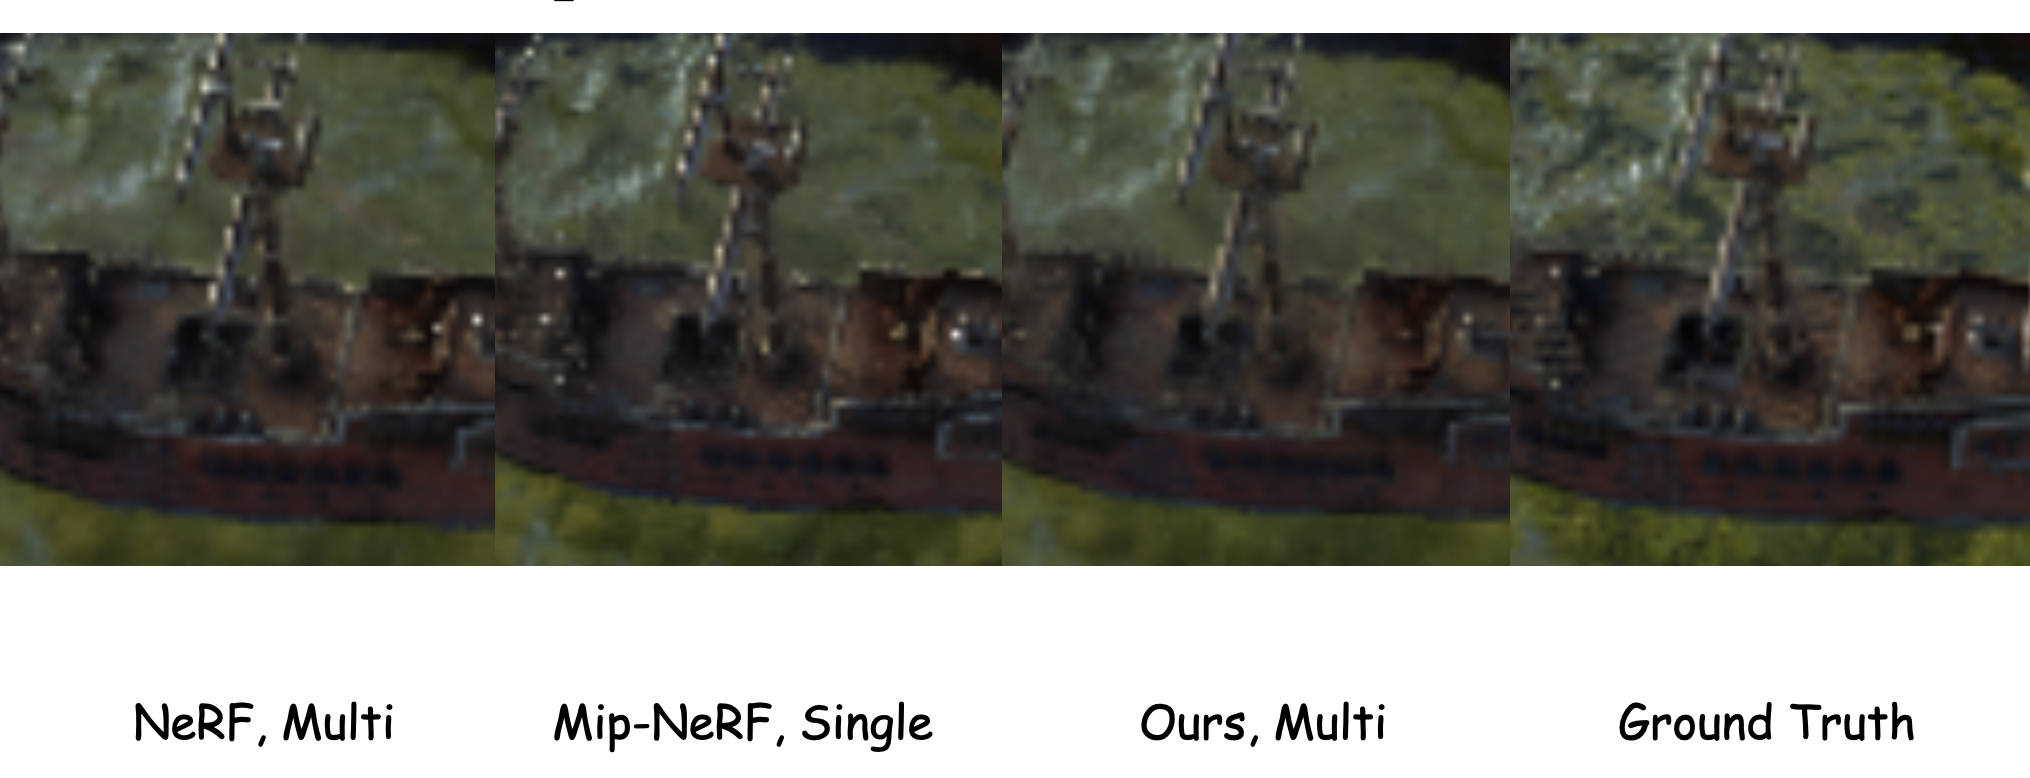
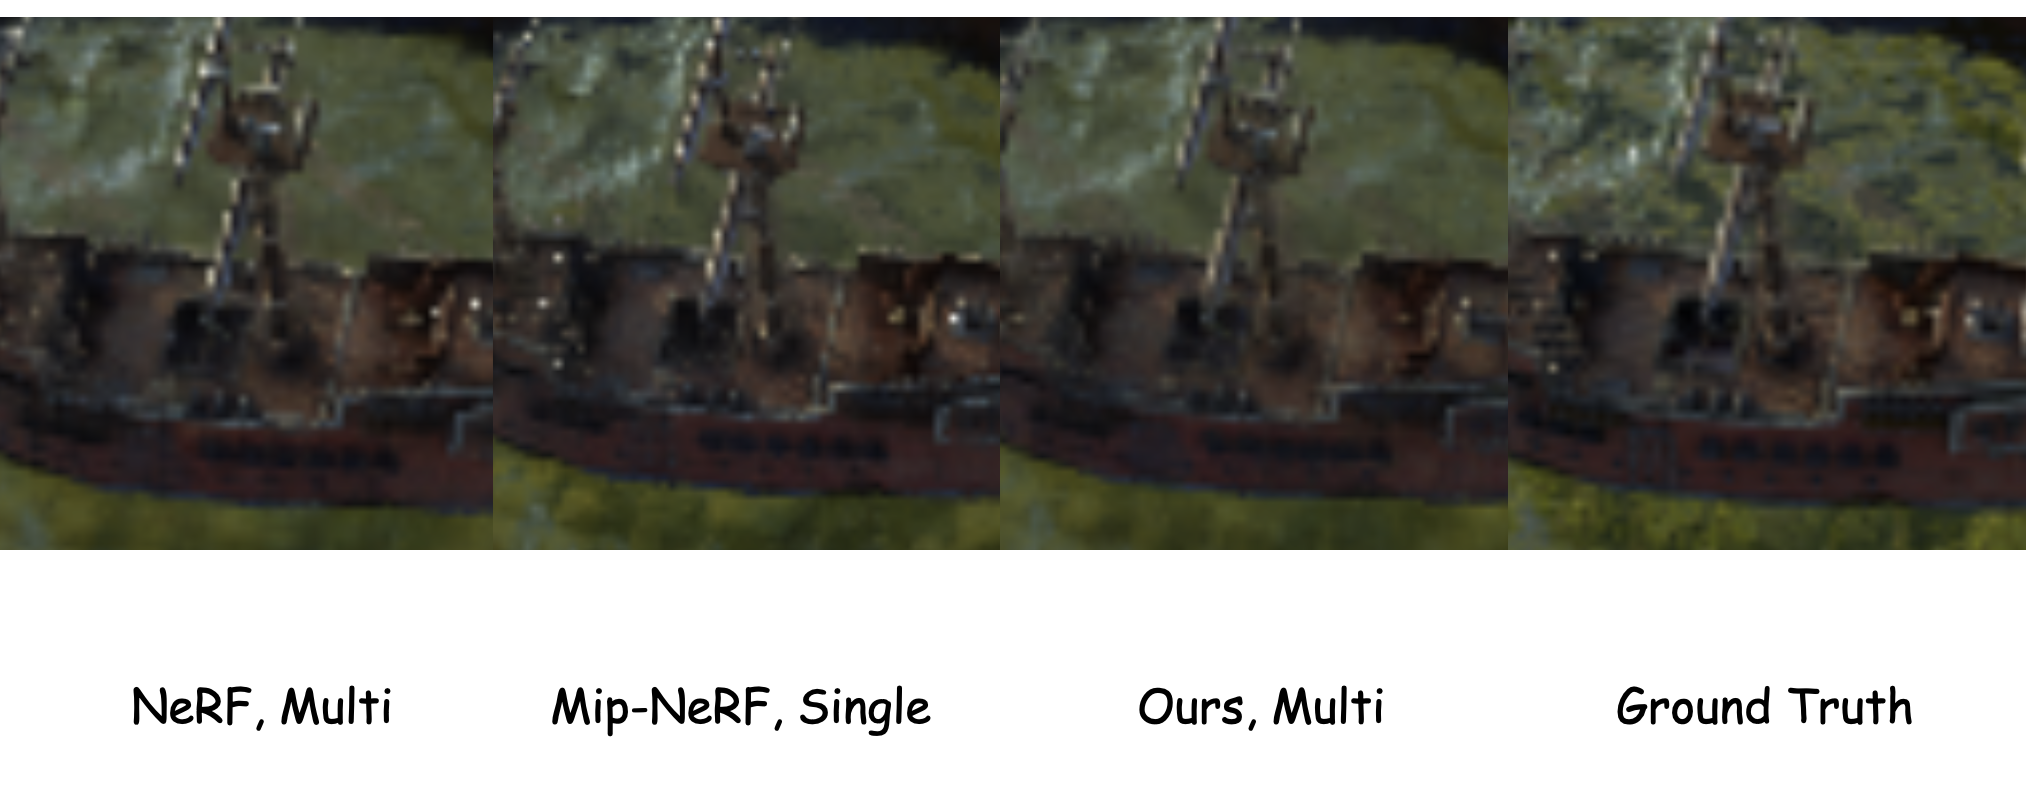
update & added color theme

diff --git a/assets/css/main.scss b/assets/css/main.scss
@@ -48,7 +48,11 @@
     flex-wrap: wrap;
     border-bottom: 1px #efefef solid;
     padding: 2em 0 2em 0;
-    
+
+    &.paper-box--last {
+        border-bottom: none;
+    }
+
 
     .paper-box-image{
         justify-content: center;
@@ -106,4 +110,242 @@ h1:before, .anchor:before {
     color: white;
     background-color: #00369f;
     font-size: .8em;
+}
+
+.page__content a.back-to-projects {
+    display: inline-flex;
+    align-items: center;
+    justify-content: center;
+    width: 2.25em;
+    height: 2.25em;
+    margin-bottom: 1.5em;
+    border: 1px solid $border-color;
+    border-radius: 50%;
+    color: $primary-color;
+    font-size: 1em;
+    box-shadow: 0 1px 3px rgba(0, 0, 0, 0.08);
+    text-decoration: none;
+    transition: transform 0.15s ease, background-color 0.2s ease, color 0.2s ease, border-color 0.2s ease, box-shadow 0.2s ease;
+
+    &:hover {
+        color: $link-color;
+        border-color: $link-color;
+        background-color: mix(#fff, $link-color, 92%);
+        box-shadow: 0 2px 6px rgba(0, 0, 0, 0.1);
+        transform: scale(1.08);
+        text-decoration: none;
+    }
+}
+
+/* ==========================================================================
+   THEME TOGGLE
+   ========================================================================== */
+
+.masthead__inner-wrap {
+    display: flex;
+    align-items: center;
+    justify-content: space-between;
+}
+
+.masthead__menu {
+    flex: 1 1 auto;
+    min-width: 0;
+}
+
+.theme-toggle {
+    flex: 0 0 auto;
+    display: inline-flex;
+    align-items: center;
+    justify-content: center;
+    width: 2.25em;
+    height: 2.25em;
+    margin-left: 1em;
+    border: 1px solid $border-color;
+    border-radius: 50%;
+    background: transparent;
+    color: $primary-color;
+    font-size: 1em;
+    cursor: pointer;
+    box-shadow: 0 1px 3px rgba(0, 0, 0, 0.08);
+    transition: transform 0.15s ease, background-color 0.2s ease, color 0.2s ease, border-color 0.2s ease, box-shadow 0.2s ease;
+
+    &:hover {
+        color: $link-color;
+        border-color: $link-color;
+        background-color: mix(#fff, $link-color, 92%);
+        box-shadow: 0 2px 6px rgba(0, 0, 0, 0.1);
+        transform: scale(1.08);
+    }
+
+    .theme-toggle__icon--sun {
+        display: none;
+    }
+}
+
+/* ==========================================================================
+   DARK THEME
+   ========================================================================== */
+
+html[data-theme="dark"] {
+    $dt-bg           : #16181a;
+    $dt-bg-elevated  : #1f2224;
+    $dt-text         : #dcdedf;
+    $dt-text-muted   : #9aa0a6;
+    $dt-border       : #34383c;
+    $dt-divider      : mix(#fff, #16181a, 8%);
+    $dt-link         : #7fb0f0;
+    $dt-code-bg      : #232628;
+
+    body {
+        background-color: $dt-bg;
+        color: $dt-text;
+    }
+
+    a {
+        color: $dt-link;
+
+        &:hover {
+            color: mix(#fff, $dt-link, 20%);
+        }
+    }
+
+    .page__content a.back-to-projects,
+    .theme-toggle {
+        border-color: $dt-border;
+        color: $dt-text-muted;
+        box-shadow: none;
+
+        &:hover {
+            color: $dt-link;
+            border-color: $dt-link;
+            background-color: $dt-bg-elevated;
+        }
+    }
+
+    .theme-toggle__icon--sun {
+        display: inline-block;
+    }
+
+    .theme-toggle__icon--moon {
+        display: none;
+    }
+
+    .masthead {
+        background-color: $dt-bg-elevated;
+        border-bottom-color: $dt-border;
+    }
+
+    .greedy-nav {
+        background: $dt-bg-elevated;
+
+        a {
+            color: $dt-text;
+        }
+
+        .hidden-links {
+            background: $dt-bg-elevated;
+
+            a {
+                background: $dt-bg-elevated;
+            }
+        }
+
+        button svg {
+            fill: $dt-text;
+        }
+    }
+
+    .sidebar,
+    .page__related {
+        background: transparent;
+    }
+
+    .author__avatar img {
+        border-color: $dt-border;
+    }
+
+    .author__urls {
+        border-color: $dt-border;
+
+        // the solid card background is only ever shown below the $large
+        // breakpoint (the popover version) -- at $large and up the theme
+        // itself makes it background: transparent, and this needs to stay
+        // out of that rule's way or it'll paint a box behind the sidebar links.
+        @media (max-width: #{$large - 1px}) {
+            background: $dt-bg-elevated;
+            box-shadow: 0 0 10px rgba(#000, 0.4);
+
+            &:after {
+                border-color: $dt-bg-elevated transparent;
+            }
+        }
+
+        &:before {
+            border-color: $dt-border transparent;
+        }
+
+        a {
+            color: $dt-text;
+
+            &:hover {
+                color: $dt-link;
+            }
+        }
+
+        // icons (map pin, envelope, LinkedIn, Github, ...) normally carry
+        // per-service brand colors -- on wide screens where this list sits
+        // inline in the sidebar (not the small popover card), flatten them
+        // to match the surrounding text instead.
+        @include breakpoint($large) {
+            i {
+                color: $dt-text;
+            }
+        }
+    }
+
+    .page__footer {
+        background-color: $dt-bg-elevated;
+        border-top-color: $dt-border;
+        color: $dt-text-muted;
+
+        a {
+            color: $dt-text;
+        }
+    }
+
+    pre, code {
+        background-color: $dt-code-bg;
+        color: $dt-text;
+    }
+
+    blockquote {
+        color: $dt-text-muted;
+        border-left-color: $dt-border;
+    }
+
+    hr {
+        border-top-color: $dt-border;
+    }
+
+    thead {
+        background-color: $dt-bg-elevated;
+    }
+
+    td {
+        border-bottom-color: $dt-border;
+    }
+
+    .notice, .notice--primary, .notice--info, .notice--warning, .notice--success, .notice--danger {
+        background-color: $dt-bg-elevated;
+    }
+
+    .paper-box {
+        border-bottom-color: $dt-divider;
+    }
+
+    input, textarea, select {
+        background-color: $dt-bg-elevated;
+        color: $dt-text;
+        border-color: $dt-border;
+    }
 }

diff --git a/_layouts/default.html b/_layouts/default.html
@@ -21,6 +21,11 @@ layout: compress
         {% if page.title %}<meta itemprop="headline" content="{{ page.title | markdownify | strip_html | strip_newlines | escape_once }}">{% endif %}
         <div class="page__inner-wrap">
           <section class="page__content" itemprop="text">
+            {% if page.permalink contains '/projects/' %}
+            <a href="/#projects" class="back-to-projects" aria-label="Back to Projects" title="Back to Projects">
+              <i class="fas fa-arrow-left" aria-hidden="true"></i>
+            </a>
+            {% endif %}
             {{ content }}
           </section>
         </div>

diff --git a/_includes/head/custom.html b/_includes/head/custom.html
@@ -22,6 +22,17 @@
 
 <script>
 document.addEventListener('DOMContentLoaded', function() {
+  // Theme toggle
+  var themeToggle = document.getElementById('theme-toggle');
+  if (themeToggle) {
+    themeToggle.addEventListener('click', function() {
+      var current = document.documentElement.getAttribute('data-theme');
+      var next = current === 'dark' ? 'light' : 'dark';
+      document.documentElement.setAttribute('data-theme', next);
+      localStorage.setItem('theme', next);
+    });
+  }
+
   // Find all links with href="#"
   const projectLinks = document.querySelectorAll('a[href="#"]');
   

diff --git a/_includes/masthead.html b/_includes/masthead.html
@@ -12,5 +12,9 @@
         <ul class="hidden-links hidden"></ul>
       </nav>
     </div>
+    <button id="theme-toggle" class="theme-toggle" type="button" aria-label="Toggle dark mode" title="Toggle dark mode">
+      <i class="fas fa-moon theme-toggle__icon theme-toggle__icon--moon" aria-hidden="true"></i>
+      <i class="fas fa-sun theme-toggle__icon theme-toggle__icon--sun" aria-hidden="true"></i>
+    </button>
   </div>
 </div>

diff --git a/_includes/head.html b/_includes/head.html
@@ -1,5 +1,13 @@
 <meta charset="utf-8">
 
+<script>
+  (function () {
+    var stored = localStorage.getItem('theme');
+    var theme = stored || (window.matchMedia('(prefers-color-scheme: dark)').matches ? 'dark' : 'light');
+    document.documentElement.setAttribute('data-theme', theme);
+  })();
+</script>
+
 {% include seo.html %}
 
 <meta name="HandheldFriendly" content="True">

diff --git a/_sass/_tables.scss b/_sass/_tables.scss
@@ -32,7 +32,7 @@ tr {
 }
 td {
   padding: .5em;
-  border-bottom: 1px solid $light-gray;
+  border-bottom: 1px solid $border-color;
   // border-right: 1px solid $light-gray;
 }
 

diff --git a/_pages/about.md b/_pages/about.md
@@ -124,28 +124,6 @@ Modified the [FMGS](https://xingxingzuo.github.io/fmgs/) pipeline to reduce VRAM
 </div>
 </div>
 
-<div class='paper-box'><div class='paper-box-image'><div><div class="badge">Physically-Based Rendering</div><img src='images/projects/volumetric_path_tracing/smoke.png' alt="sym" width="100%"></div></div>
-<div class='paper-box-text' markdown="1">
-
-**[Volumetric Path Tracing](#)** [C++, Monte Carlo, Participating Media, MIS]
-
-Implemented a volumetric path tracer supporting absorption, scattering, heterogeneous volumes, and next event estimation. Features null-scattering and spectral extinction handling, integrated into the Lajolla physically-based renderer.
-
-- [🔗 View GitHub Repo](https://github.com/mizoreto/lajolla-renderer) 
-</div>
-</div>
-
-<div class='paper-box'><div class='paper-box-image'><div><div class="badge">Physically-Based Rendering</div><img src='images/projects/disney_bsdf/disney_bsdf.png' alt="sym" width="100%"></div></div>
-<div class='paper-box-text' markdown="1">
-
-**[Disney BSDF](#)** [C++, Monte Carlo, Path Tracing, BSDF]
-
-Implemented the Disney principled BSDF in a Monte Carlo path tracer (Lajolla). Combined microfacet-based BRDFs with importance sampling to support a wide range of realistic materials, including metal, glass, clearcoat, and retroreflective fabrics.
-
-- [🔗 View GitHub Repo](https://github.com/mizoreto/lajolla-renderer) 
-</div>
-</div>
-
 <div class='paper-box'><div class='paper-box-image'><div><div class="badge">Autonomous Driving Forecasting</div><img src='images/projects/trajectory_prediction/cover.png' alt="sym" width="100%"></div></div>
 <div class='paper-box-text' markdown="1">
 
@@ -171,7 +149,29 @@ The Timebound Voyage is a pirate ship puzzle narrative where players explore a m
 </div>
 </div>
 
-<div class='paper-box'><div class='paper-box-image'><div><div class="badge">3D Platformer Game</div><img src='images/projects/crystal_quest/crystal_quest_cover.jpg' alt="sym" width="100%"></div></div>
+<div class='paper-box'><div class='paper-box-image'><div><div class="badge">Physically-Based Rendering</div><img src='images/projects/volumetric_path_tracing/smoke.png' alt="sym" width="100%"></div></div>
+<div class='paper-box-text' markdown="1">
+
+**[Volumetric Path Tracing](#)** [C++, Monte Carlo, Participating Media, MIS]
+
+Implemented a volumetric path tracer supporting absorption, scattering, heterogeneous volumes, and next event estimation. Features null-scattering and spectral extinction handling, integrated into the Lajolla physically-based renderer.
+
+- [🔗 View GitHub Repo](https://github.com/mizoreto/lajolla-renderer) 
+</div>
+</div>
+
+<div class='paper-box'><div class='paper-box-image'><div><div class="badge">Physically-Based Rendering</div><img src='images/projects/disney_bsdf/disney_bsdf.png' alt="sym" width="100%"></div></div>
+<div class='paper-box-text' markdown="1">
+
+**[Disney BSDF](#)** [C++, Monte Carlo, Path Tracing, BSDF]
+
+Implemented the Disney principled BSDF in a Monte Carlo path tracer (Lajolla). Combined microfacet-based BRDFs with importance sampling to support a wide range of realistic materials, including metal, glass, clearcoat, and retroreflective fabrics.
+
+- [🔗 View GitHub Repo](https://github.com/mizoreto/lajolla-renderer) 
+</div>
+</div>
+
+<div class='paper-box paper-box--last'><div class='paper-box-image'><div><div class="badge">3D Platformer Game</div><img src='images/projects/crystal_quest/crystal_quest_cover.jpg' alt="sym" width="100%"></div></div>
 <div class='paper-box-text' markdown="1">
 
 **[Crystal Quest](#)** [Unreal Engine, Blueprint Visual Scripting]
